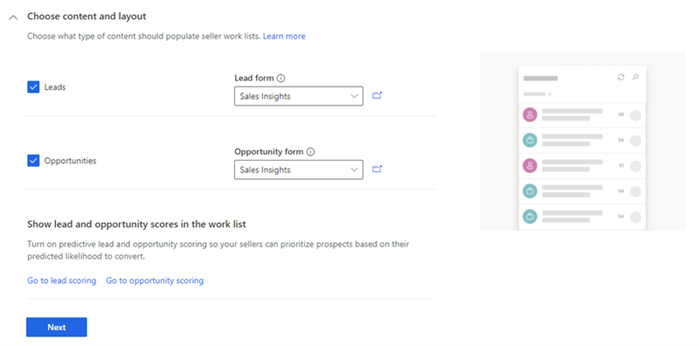
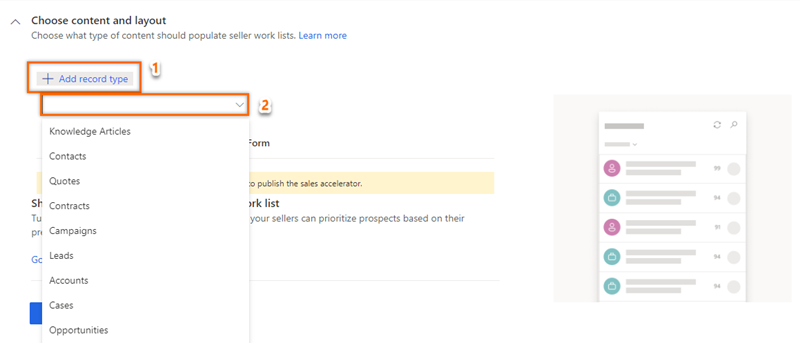
custom entity update

diff --git a/ai-docs/sales/prioritize-sales-pipeline-through-work-list.md b/ai-docs/sales/prioritize-sales-pipeline-through-work-list.md
@@ -11,15 +11,15 @@ manager: shujoshi
 
 # Prioritize your sales pipeline by using the work list 
 
-During their workday, sellers need to juggle multiple tasks as they work on multiple leads and opportunities. As a result, it can be hard for them to plan and prioritize their customer-facing activities. The work list in the Sales accelerator for Dynamics 365 Sales Insights helps sellers prioritize their time and effort to ensure that important leads and opportunities aren't left behind.    
+During their workday, sellers need to juggle multiple tasks as they work on multiple records. As a result, it can be hard for them to plan and prioritize their customer-facing activities. The work list in the Sales accelerator for Dynamics 365 Sales Insights helps sellers prioritize their time and effort to ensure that important records aren't left behind.    
 The Sales accelerator work list gives sellers the following capabilities:  
-- Manage and view records&mdash;leads and opportunities&mdash;that include the activities that are due in the last 30 days to be performed, sorted by priority, and remove records after an activity has been completed. More information: [View my records through the work list](#view-my-records-through-work-list)   
+- Manage and view records that include the activities that are due in the last 30 days to be performed, sorted by priority, and remove records after an activity has been completed. More information: [View my records through the work list](#view-my-records-through-work-list)   
 - Manage the work list by sorting, filtering, and grouping all records. More information: [Filter records in the work list](#filter-records-in-work-list)   
 - View relevant information about customers, such as personal details, past and future activities, and the related entities for each record. More information: [Understand the Up next widget](#understand-the-up-next-widget)   
 - Communicate with customers through phone and email. More information: [Connect with customers by using a record or the Up next widget](connect-with-customers.md)  
 - Add manual activities to records in addition to those that have been defined in a sequence, if an ad-hoc activity is required. More information: [Add manual activities to records](#add-manual-activities-to-records)  
 > [!NOTE]
-> The work list is configured by a sales manager who defines the sequence of activities for leads and opportunities by using the sequence designer. More information: [Create and manage sequences](create-manage-sequences.md)   
+> The work list is configured by a sales manager who defines the sequence of activities for records by using the sequence designer. More information: [Create and manage sequences](create-manage-sequences.md)   
 
 ## Prerequisites    
 Review the following prerequisites before you start using work lists:   
@@ -29,7 +29,7 @@ Review the following prerequisites before you start using work lists:
 - (Optional) [Predictive lead scoring](configure-predictive-lead-scoring.md) and [predictive opportunity scoring](configure-predictive-opportunity-scoring.md) are enabled, and models have been generated for your organization. Contact your administrator to enable these features.
 
 ## View my records by using the work list<a name="view-my-records-through-work-list"></a>  
-The work list displays a list of records that are assigned to you or to the security role you're associated with. The records display activities that are due for the current date&mdash;or pending from previous dates&mdash;that were created manually or through a sequence. This helps you to access all records that include activities in one place, instead of navigating across multiple forms in the application. A sales manager can configure and determine the entities (leads and opportunities) to display to you in the work list. The top of the record in the work list will always be the next best customer with the highest prediction score.
+The work list displays a list of records that are assigned to you or to the security role you're associated with. The records display activities that are due for the current date&mdash;or pending from previous dates&mdash;that were created manually or through a sequence. This helps you to access all records that include activities in one place, instead of navigating across multiple forms in the application. A sales manager can configure and determine the entities to display to you in the work list. The top of the record in the work list will always be the next best customer with the highest prediction score.
 
 **To view the work list**   
 1. Sign in to the Dynamics 365 Sales Hub app, and go to **Change area** > **Sales**.   
@@ -53,10 +53,10 @@ let's understand the filter options in detail:
 - **Followed**: Select the option to  filter the list to view records that are followed by you.
 - **Overdue**: Select the option to  filter the list to view records with pending tasks that are not completed on time.
 - **More filters**: Select the options to filter the list by selecting the entity and activity types. When you select the filters, the list is refreshed to display the filtered records.    
-    - The **Record type** filter options are **Lead** and **Opportunity**. You can select both options to view all records, or you can select an individual entity to view only the records that belong to that entity.  
-        Select at least one option to display relevant records in the work list. If no records match your selected entity type, an empty list is displayed.  
+    - The **Record type** filter options contains the records types that sales accelerator is configured for. You can select all options to view all records, or you can select an individual type to view only the records that belong to that type.  
+        Select at least one option to display relevant records in the work list. If no records match your selected type, an empty list is displayed.  
         By default, all filter options are selected.   
-    - The **Activity type** filter options are **Call**, **Email**, and **Task**. You can select all or any specific option to filter the records to display in the work list.   
+    - The **Activity type** filter options are **Phone calls**, **Email messages**, **Tasks**, and **Meetings**. You can select all or any specific option to filter the records to display in the work list.   
         Select at least one option to display relevant records in the work list. If no records match your selected activity type, an empty list is displayed.  
         By default, all filter options are selected.  
     For example, when you select the entity type as **Lead** and the activity type as **Call**, the work list displays only the lead records that include call activities.
@@ -73,7 +73,7 @@ let's understand the filter options in detail:
         For example, you have records with priority scores 95, 92, 89,45, 54, and 73. When you select the **Priority score** option to sort by and **Highest on top** for the sort order, records are sorted by priority in descending order, with the record that has highest score (95) on top.    
     - **Name**: When you select this option, the records in the work list are sorted according to the record name. You can select the sort order as **A to Z** to view the records in ascending order or **Z to A** to view them in descending order.    
     - **Activity type**: When you select this option, the records in the work list are sorted into **Call**, **Email**, and **Task** activity types. You can select the sort order as **A to Z** to view the records in ascending order or **Z to A** to view them in descending order.   
-    - **Record type**: When you select this option, the records in the work list are grouped into **Leads** and **Opportunities**. You can select the sort order as **A to Z** to view the records in ascending order or **Z to A** to view them in descending order.   
+    - **Record type**: When you select this option, the records in the work list are grouped into record types. You can select the sort order as **A to Z** to view the records in ascending order or **Z to A** to view them in descending order.   
     - **Sequence name**: When you select this option, the records in the work list are sorted according to the name of the sequence that is assigned. If you have added activities manually to a record without sequences, then these records appear under **No sequence** group. You can select the sort order as **A to Z** to view the records in ascending order or **Z to A** to view them in descending order.
 
 - **Settings**: Using the work list settings, you can choose what must happen to a record when a step is completed or skipped. Select **Settings** and on the **Work list settings** dialog box choose the following options:   
@@ -105,7 +105,7 @@ The following image shows an example of the **Up next** widget.
 
 ## Add manual activities to records
 
-Using the sequence, your sales manager can define activities for you such as email, phone calls, and tasks. To meet business requirements, you might have to add extra activities to a lead or an opportunity. You can manually add activities for leads and opportunities to appear in the **Up next** widget in addition to activities defined in the sequence for a given day. The manual activities include email, phone calls, and tasks.   
+Using the sequence, your sales manager can define activities for you such as email, phone calls, and tasks. To meet business requirements, you might have to add extra activities to a lead or an opportunity. You can manually add activities for records to appear in the **Up next** widget in addition to activities defined in the sequence for a given day. The manual activities include email, phone calls, and tasks.   
 The characteristics of manual activities are similar to an activity defined in a sequence. Sellers must perform the activity and mark it as complete. Then the activity will be moved to the list of completed activities in the **Up next** widget. A sales manager or you, as a seller, can add the manual activity to the records that you or your security role owns.    
 
 **To add a manual activity**   

diff --git a/ai-docs/sales/enable-configure-sales-accelerator.md b/ai-docs/sales/enable-configure-sales-accelerator.md
@@ -11,7 +11,7 @@ manager: shujoshi
 
 # Configure the sales accelerator
 
-The Dynamics 365 Sales Insights sales accelerator helps sellers in your organization increase their sales productivity and prioritize activities for the day through the work list available in your sales app. An administrator or a sales manager uses the sequence designer to create a sequence of activities&mdash;separated by time intervals&mdash;including emails, phone calls, and tasks. Sequences are connected to relevant records, so sellers can follow the best practices that have been defined in the sequence for the leads and opportunities that are assigned to them. The sequence is then applied to leads or opportunities and assigned to a seller automatically, according to your organization's sales strategies.  
+The Dynamics 365 Sales Insights sales accelerator helps sellers in your organization increase their sales productivity and prioritize activities for the day through the work list available in your sales app. An administrator or a sales manager uses the sequence designer to create a sequence of activities&mdash;separated by time intervals&mdash;including emails, phone calls, and tasks. Sequences are connected to relevant records, so sellers can follow the best practices that have been defined in the sequence for the record types that are assigned to them. The sequence is then applied to record types and assigned to a seller automatically, according to your organization's sales strategies.  
 
 As an administrator, you must enable and configure the sales accelerator in your organization to make it available for sales managers and sellers to use. Follow these steps:
 
@@ -59,13 +59,24 @@ For the best experience of the sales accelerator, enable and configure [predicti
     | All security roles | Select this option to give access to view the Sales Hub app to all the security roles in your organization. |
     | Specific security roles | Select this option to specify security roles to give access to view the Sales Hub app to just a few users. Use the lookup box to add the security roles. |    
     
-5. <a name="choose-content-and-layout"></a>In the **Choose content and layout** section, choose the record types (**Leads** and **Opportunities**) and their corresponding related forms that users use in your organization, as required. Select **Next**.     
-    The selected record type will display the **Sequence (up next)** widget, and sales managers will use the record types to configure the sequence that will be assigned to records to be displayed in the app. By default, the **Leads** and **Opportunities** record types are selected.     
-    >[!NOTE]
-    >If you're using custom record types for leads and opportunities, the names of your custom record types are displayed.    
+5. <a name="choose-content-and-layout"></a>In the **Choose content and layout** section, choose the record types and their corresponding related forms that users use in your organization, as required.      
     
-    >[!div class="mx-imgBorder"]
-    >![Choose content layout](media/sa-choose-content-layout.png "Choose content layout")   
+    1. Select **Add record type** and then select the dropdown list to choose the records that you want to add. The selected record type will display the **Sequence (up next)** widget, and sales managers will use the record types to configure the sequence that will be assigned to records to be displayed in the app. You can select record types such as, **Accounts**, **Contact**, **Leads**, and **Opportunities** and custom.    
+        >[!NOTE]
+        >- To view the custom records types in the list, enable the options **Activities**, **Connections**, and **Sending email (If an email field does not exist, one will be created)** under **Communication & Collaboration** in **Settings > Customizations > Customize the System > Components > Entities**.
+        >- If you're using custom record types for **Accounts**, **Contact**, **Leads**, and **Opportunities**, the names of your custom record types are displayed.    
+        >- To add the **Up next** widget to your custom entity form, see [Add the Up next widget to an entity form](add-upnext-widget-form.md).     
+        
+        >[!div class="mx-imgBorder"]
+        >![Choose content layout](media/sa-choose-content-layout.png "Choose content layout")   
+
+    2. Repeat **step a** to add more record types. In the example, the record types, **Contacts**, **Leads**, **Accounts**, and **Orders** are added.   
+    
+        >[!div class="mx-imgBorder"]
+        >![Selected record types](media/sa-selected-record-types.png "Selected record types")         
+     
+    3. Select **Next**
+
 6. In the **Automate activity creation** section, choose an option based on your requirements:    
     - Select **Go to sequences** to create sequences and apply them to records. More information: [Create and manage sequences](create-manage-sequences.md)
     - Select **Skip this step** to come back later and create the sequences.
@@ -81,8 +92,8 @@ For the best experience of the sales accelerator, enable and configure [predicti
         >For opportunities, the phone number priority will be applied to the primary contacts.  
 
     - Under **Call settings**, select the **Create records automatically on click** option to automatically create a phone call activity when sellers initiate a call from a sequence step or from the work list.   
-    >[!div class="mx-imgBorder"]
-    >![Advanced call settings](media/sa-advance-call-settings.png "Advanced call settings")       
+        >[!div class="mx-imgBorder"]
+        >![Advanced call settings](media/sa-advance-call-settings.png "Advanced call settings")       
 8. Save and publish the configuration.
     A status message is displayed at the top of the page with details including the time and user who published the configurations.
     >[!div class="mx-imgBorder"]

diff --git a/ai-docs/sales/add-upnext-widget-form.md b/ai-docs/sales/add-upnext-widget-form.md
@@ -11,7 +11,7 @@ manager: shujoshi
 
 # Add the Up next widget to an entity form
 
-By default, the up next widget is available only in the out-of-the-box Sales Insights, lead, and opportunity forms. If you're using customized forms for leads or opportunities, you can display the up next widget on your custom forms by following these steps.
+By default, the up next widget is available only in the out-of-the-box Sales Insights, lead, and opportunity forms. If you're using customized forms, you can display the up next widget on your custom forms by following these steps.
 >[!NOTE]
 >- You can add the **Up next** widget only to managed forms.
 >- Adding the **Up next** widget is supported only in the Unified Interface apps.
@@ -23,7 +23,7 @@ By default, the up next widget is available only in the out-of-the-box Sales Ins
     >[!div class="mx-imgBorder"]
     >![Choose custom entity form](media/sa-choose-custom-entity-form.png "Choose custom entity form")   
     >[!NOTE]
-    >Here we are using custom lead form as an example to add up next widget for leads. For Opportunities, you can perform the steps described in the procedure with opportunity form selector.
+    >Here we are using custom lead form as an example to add up next widget for leads. For other record types, you can perform the steps described in the procedure with custom form selector.
 5. Select the open in new tab icon (![open in new tab icon](media/sa-open-new-tab.png "open in new tab icon")) and the form designer tab opens.   
     >[!div class="mx-imgBorder"]
     >![Entity form in designer](media/sa-powerapps-form-designer.png "Entity form in designer")   
